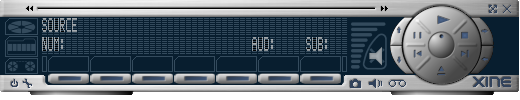
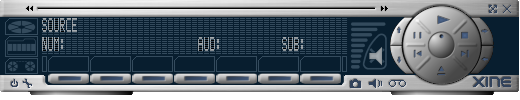
small gui adaptions to new audio/spu channel selection functions

Changed region(s): [[0.4615, 0.36, 0.6462, 0.51], [0.3692, 0.36, 0.4308, 0.51]]

diff --git a/src/xitk/actions.c b/src/xitk/actions.c
@@ -267,10 +267,8 @@ void gui_change_spu_channel(xitk_widget_t *w, void *data) {
 			    (xine_get_spu_channel(gGui->xine) + 1));
   }
   else if(((int)data) == GUI_PREV) {
-    if(xine_get_spu_channel(gGui->xine) >= 0) {
-      xine_select_spu_channel(gGui->xine, 
-			      (xine_get_spu_channel(gGui->xine) - 1));
-    }
+    xine_select_spu_channel(gGui->xine, 
+			    (xine_get_spu_channel(gGui->xine) - 1));
   }
 
   panel_update_channel_display ();

diff --git a/src/xitk/main.c b/src/xitk/main.c
@@ -525,7 +525,7 @@ int main(int argc, char *argv[]) {
   int              c = '?', aos = 0;
   int              option_index = 0;
   int              demux_strategy = DEMUX_DEFAULT_STRATEGY;
-  int              audio_channel = 0;
+  int              audio_channel = -1;
   int              spu_channel = -1;
 #ifdef HAVE_XF86VIDMODE
   int              use_xvidext = 0;

diff --git a/src/xitk/panel.c b/src/xitk/panel.c
@@ -288,9 +288,6 @@ void panel_update_channel_display (void) {
   
   xine_get_spu_lang (gGui->xine, panel->spuid);
 
-  if(-1 == (atoi(panel->spuid)))
-    sprintf(panel->spuid, "%s", "off");
-  
   xitk_label_change_label (panel->widget_list, panel->spuid_label, 
 			   panel->spuid);
 }
